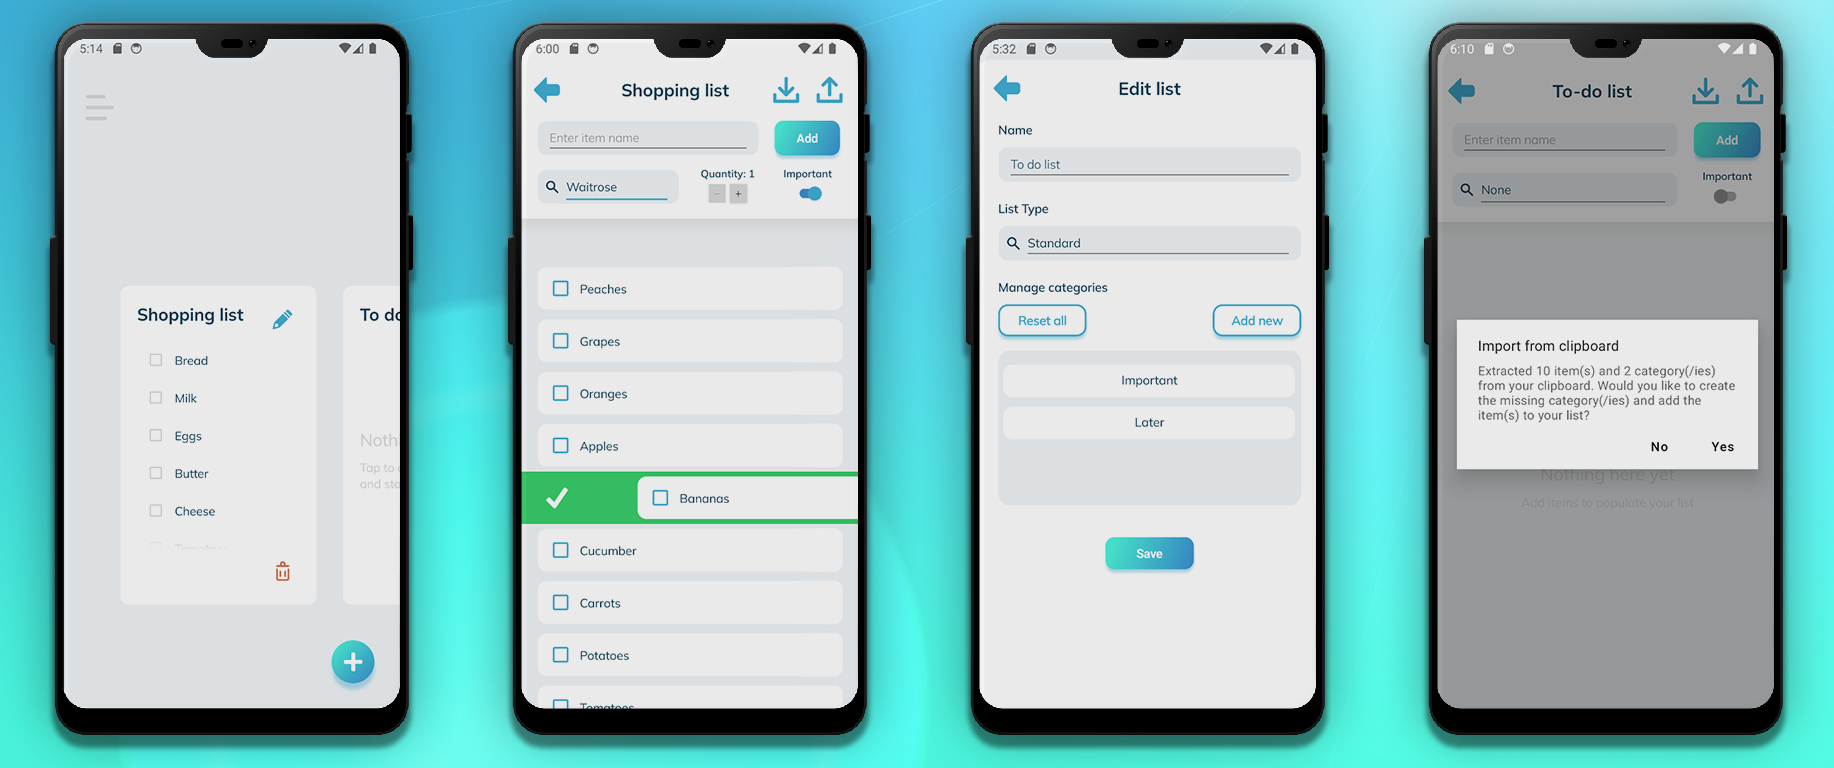
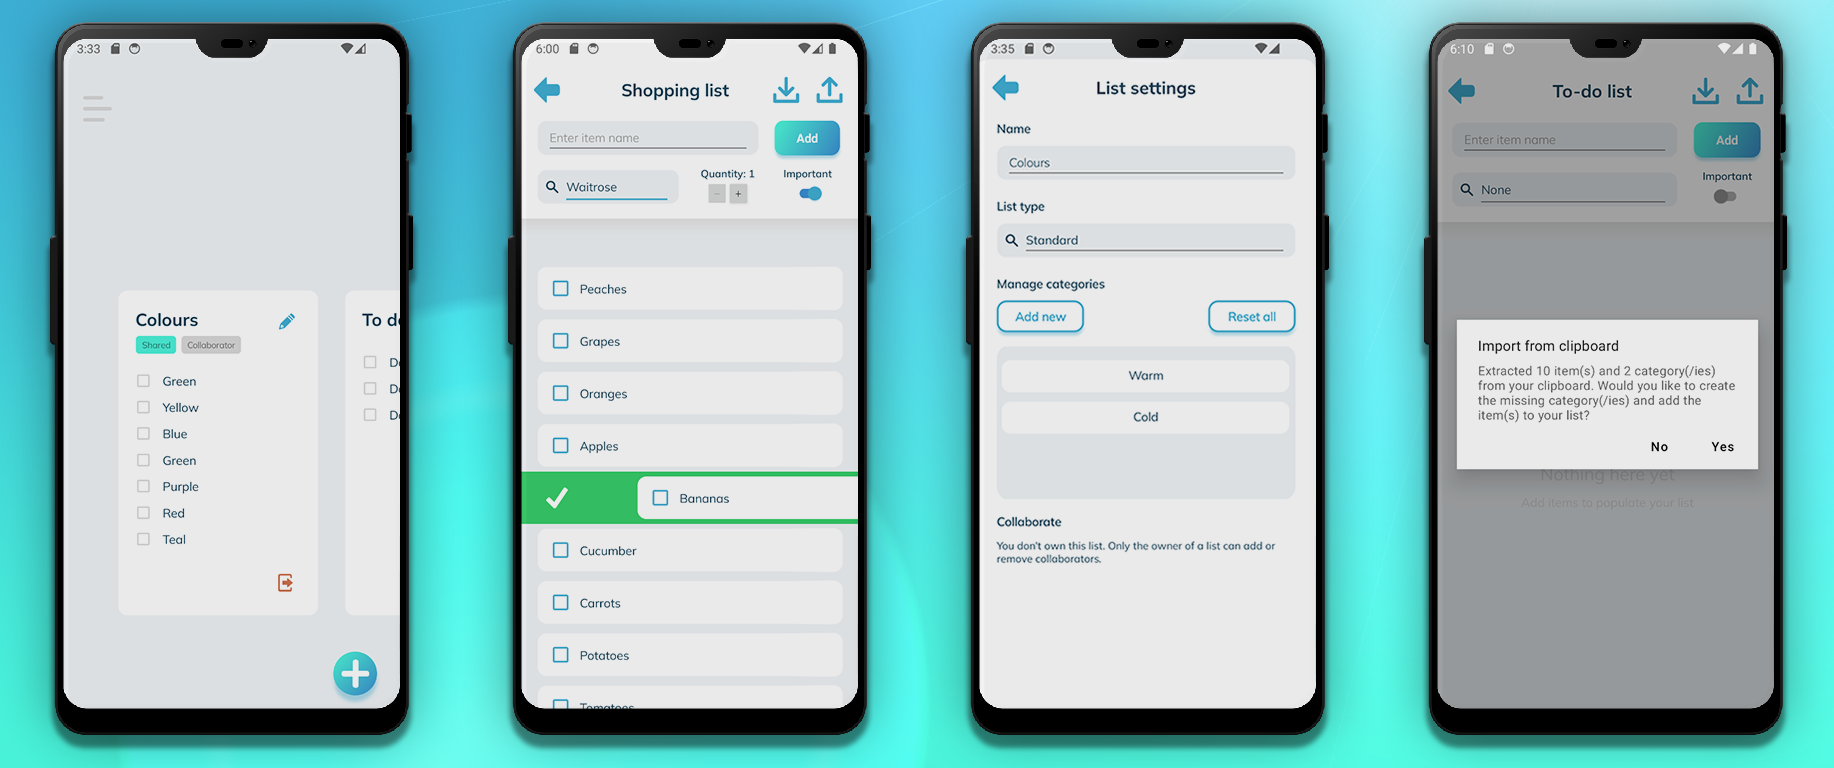
Update README and screenshots.png

diff --git a/README.md b/README.md
@@ -1,34 +1,39 @@
-# The Listem Project
+# The Listem Project With MongoDB Atlas and Realm
 
 This repository contains an Android application and the relevant backend. The first one is a simple, minimalist to-do
-list Android app written in C# using .NET 8 MAUI, the CommunityToolkit, and SQLite. It also contains the backend for
-this app, also written in C# using .NET 8, Entity Framework Core, and ASP Core Authentication.
+list Android app written in C# using .NET 8 MAUI, the CommunityToolkit, and MongoDB Atlas with Realm and Flexible Sync.
 
 > [!IMPORTANT]  
 > This project is a work in progress and actively being worked on. While the backend has been connected, there is no
 > data sync when switching between online and offline modes. The app is also configured for localhost only.
 
-The goal was to learn something about .NET MAUI and Android app development by building on
-my first ever mobile app, the [Shopping List app](https://github.com/kimgoetzke/practice-maui-shopping-list) which I created the week before, and make a
-look a little less nasty and also use some shared, custom controls. In addition, I wanted to learn about web development
-with .NET and create a basic but fully-deployable service.
+The goals were to 1) learn something about .NET MAUI and Android app development by building on
+my first ever mobile app, the [Shopping List app](https://github.com/kimgoetzke/practice-maui-shopping-list) which I had
+created the week before, and 2) make it look a little less nasty and explore using some shared, custom controls. In
+addition, I wanted to 3) create a fully deployable application.
+
+> [!NOTE]  
+> I explored creating a ASP.NET Core backend (see
+> branch [use-backend-api](https://github.com/kimgoetzke/practice-maui-listem/tree/use-backend-api)) but I didn't find
+> an easy solution to deal with data synchronisation and conflict management (e.g. when a user is offline and makes
+> changes, especially to shared lists). This eventually led me to implement MongoDB Atlas with Realm and Flexible Sync
+> because it allows for offline-first development, deals with conflict resolution, and even offers
+> authorisation/authentication.
 
 ![Screenshots PNG](./assets/screenshots.png)
-
-## MAUI Android application
 
 ### Overview
 
 - A super basic, minimalist to-do list app targeting Android
-- Users can register and log in to save their lists and categories in the cloud
+- Users can register and log in to save their lists and use collaboration features
+- Users can share lists with other users through the app and collaborate on them
 - Alternatively, the app can be used without account/connection, storing all data in a SQLite database on the device
 - Lists can be somewhat customised by adding categories or list types (e.g. changing to shopping list exposes a
   quantity control)
 - A list's content can be exported to the clipboard as text
 - List items can be imported from a comma-separated string from the clipboard and merged with the current list
 - Native confirmation prompts are used for destructive actions
-- Theming hasn't been implemented this time but can be enabled by configuring `DarkTheme.xaml` and exposing a control to
-  change theme
+- The theme can be changed but the only other theme, `DarkTheme.xaml`, hasn't been configured yet
 - Icons used are CC0 from [iconsDB.com](https://www.iconsdb.com/) or self-made
 - Colour scheme and topography inspired by Mailin
   Hülsmann's [Tennis App - UX/UI Design Case Study](https://www.behance.net/gallery/124361333/Tennis-App-UXUI-Design-Case-Study)
@@ -61,9 +66,11 @@ phone.
 
 ### How to run UI tests
 
-_Note: Currently, I am unable to get Appium to install the APK correctly on the emulator. The only way to make the app
-start during tests is to first install the APK on the device and then run the tests. If the APK is ever installed by
-Appium, the device needs to be wiped and the APK installed again without Appium for the tests to run._
+> [!NOTE]  
+> This is still work in progress. Currently, I am unable to get Appium to install the APK correctly on the emulator. The
+> only way to make the app start during tests is to first install the APK on the device and then run the tests. If the
+> APK is ever installed by Appium, the device needs to be wiped and the APK installed again without Appium for the tests
+> to run.
 
 To run the tests:
 
@@ -71,47 +78,3 @@ To run the tests:
 2. Navigate to the `Listem.UITests` project with `cd Listem.UITests`
 3. Run the tests via your IDE or `donet test`
 
-## Backend
-
-### Overview
-
-- A minimal REST API for managing lists, categories, and items
-- Token based authentication flow
-- Separate Entity Framework Core database contexts for each entity type
-- Middleware that creates and makes available a request context (e.g. containing the user id) for each authenticated
-  endpoint
-- Custom logging middleware
-- Custom exception handling middleware
-
-### How to configure the backend for development
-
-1. Run `dotnet restore` in the base directory to restore all dependencies, if you haven't already done so.
-2. The first time running the application, you'll need to create the database and run the migrations. This can be done
-   by running the following command from the root of the repository:
-
-    ```shell
-    cd Listem.API && dotnet ef migrations add InitialCreate --context ListDbContext --output-dir Migrations/Lists  && dotnet ef database update --context ListDbContext && dotnet ef migrations add InitialCreate --context CategoryDbContext --output-dir Migrations/Categories && dotnet ef database update --context CategoryDbContext && dotnet ef migrations add InitialCreate --context ItemDbContext --output-dir Migrations/Items && dotnet ef database update --context ItemDbContext && dotnet ef migrations add InitialCreate --context UserDbContext --output-dir Migrations/Users && dotnet ef database update --context UserDbContext
-    ```
-
-   Alternatively, if you want to run each command separately:
-
-    ```shell
-    cd Listem.API
-    dotnet ef migrations add InitialCreate --context ListDbContext --output-dir Migrations/Lists
-    dotnet ef database update --context ListDbContext
-    dotnet ef migrations add InitialCreate --context CategoryDbContext --output-dir Migrations/Categories 
-    dotnet ef database update --context CategoryDbContext
-    dotnet ef migrations add InitialCreate --context ItemDbContext --output-dir Migrations/Items
-    dotnet ef database update --context ItemDbContext
-    dotnet ef migrations add InitialCreate --context UserDbContext --output-dir Migrations/Users 
-    dotnet ef database update --context UserDbContext
-    ```
-
-3. You can use the Postman collection in the `/assets` directory to test the API.
-
-Note for the future: You can create a new certificate if you are running the application for the first time in HTTPS
-mode:
-
-```shell
-dotnet dev-certs https --trust
-```
